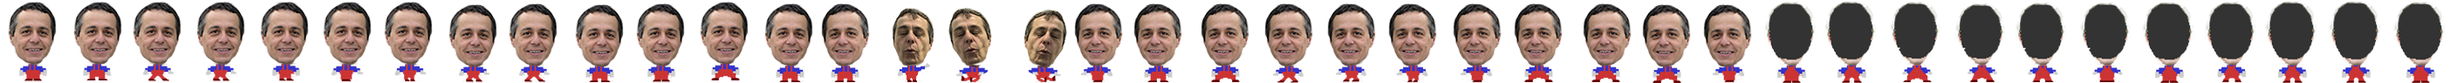
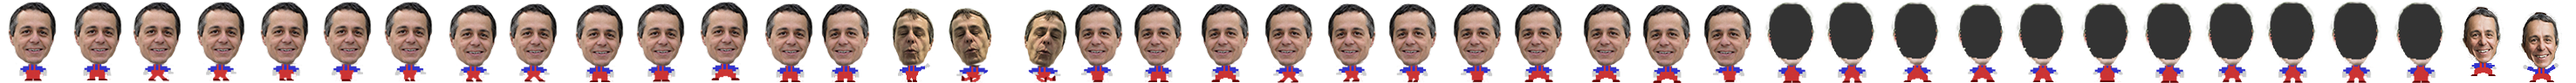
add victory animation

diff --git a/js/tower.js b/js/tower.js
@@ -38,7 +38,8 @@
         BACK:  { x: 2016, y: 0, w: 72, h: 96, frames: 1,  fps: 30 },        // animation - player standing still with back to camera (on ladder but not moving)
         CLIMB: { x: 2016, y: 0, w: 72, h: 96, frames: 11, fps: 30 },        // animation - player climbing ladder
         HURTL: { x: 1080, y: 0, w: 72, h: 96, frames: 1,  fps: 10 },        // animation - player hurt while running left
-        HURTR: { x: 1152, y: 0, w: 72, h: 96, frames: 1,  fps: 10 }         // animation - player hurt while running right
+        HURTR: { x: 1152, y: 0, w: 72, h: 96, frames: 1,  fps: 10 },         // animation - player hurt while running right
+        WIN: { x: 2808, y: 0, w: 72, h: 96, frames: 2,  fps: 5 }
       },
       MONSTERS = [
         { name: "BLOCK", nx: -0.5, ny: -0.5, w: 1.5*METER, h: 1.5*METER, speed: 4*METER, dir: 'up',    vertical: true,  horizontal: false, animation: { up:   { x:   0, y:  0, w: 50, h: 50, frames: 2, fps: 5 }, down:  { x:   0, y:  0, w: 50, h: 50, frames: 2, fps: 5 } } },
@@ -50,12 +51,6 @@
   //===========================================================================
   // VARIABLES
   //===========================================================================
-
-  /*if($(window).width() < 720){
-    console.log('small screen')
-    WIDTH = 280;
-    $('#tower').width(WIDTH - 10);
-  }*/
 
   var tower,
       monsters,
@@ -87,7 +82,6 @@
   //===========================================================================
 
   function run() {
-    console.log('run() called')
     Game.Load.images(IMAGES, function(images) {
       Game.Load.json("levels/level1", function(level) {
         setup(images, level);
@@ -130,7 +124,7 @@
   }
   function doCheat(){
     /* not anymore
-    player.y += 200; */
+    player.y += 200;*/
   }
   function logHeight(){
     console.log('Current height: ' + player.y);
@@ -370,6 +364,8 @@
         Game.animate(FPS, this, PLAYER.LEFT);
       }else if (this.input.right || (this.stepping == DIR.RIGHT)){
         Game.animate(FPS, this, PLAYER.RIGHT);
+      }else if(playerDidWin){
+        Game.animate(FPS, this, PLAYER.WIN);
       }else if (player.y > 3750){
         if(player.score < 1){ // 124
           if(!playerLackedOfVoices)
@@ -383,11 +379,14 @@
           }
         }else{ // enough voices
           if(!playerDidWin){
-            playerDidWin = true;
-            audio.pause();
-            var successAudio = new Audio('sound/success.mp3');
-            successAudio.play();
-            var isClimbing = false;
+            playerDidWin = true; // prevents double event and triggers win animation
+
+            if(audio){
+              audio.pause();
+              var successAudio = new Audio('sound/success.mp3');
+              successAudio.play();
+            }
+
             $('#prompt').html(`<h1>Vous avez gagné! </h1>
               <p>Votre candidat a gagné la course au Conseil fédéral avec <b>${player.score} voix</b>.</p>
               `);
@@ -1159,9 +1158,6 @@
   if($(document).width() > 900){
     // enable music by default
     $('#music').prop('checked', true);
-    console.log('chk')
-  }else{
-    console.log('small scr')
   }
 
   $('#playButton').click(function(){
@@ -1173,6 +1169,7 @@
         audio.play();
       });
     }
+    console.log(audio);
     console.log('Selected player: ' + $('ul.player-selection li.selected').data('player'))
     $('#prompt, #overlay').hide();
     run();
